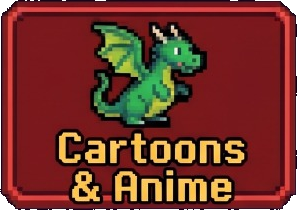
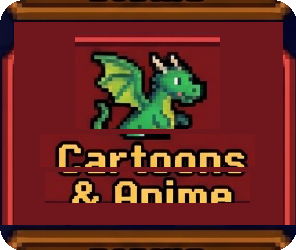
fix(ui): revert global font to Archivo, fit Cartoons & Anime in box, and compact category grid

diff --git a/lib/main.dart b/lib/main.dart
@@ -158,8 +158,8 @@ class FraudCheckApp extends StatelessWidget {
         brightness: Brightness.dark,
         scaffoldBackgroundColor: bg,
         colorScheme: const ColorScheme.dark(primary: yellow, surface: card),
-        fontFamily: GoogleFonts.pixelifySans().fontFamily,
-        textTheme: GoogleFonts.pixelifySansTextTheme(
+        fontFamily: GoogleFonts.archivo().fontFamily,
+        textTheme: GoogleFonts.archivoTextTheme(
           ThemeData.dark().textTheme.apply(bodyColor: ink, displayColor: ink),
         ),
       ),
@@ -247,7 +247,7 @@ class FilmStripPainter extends CustomPainter {
       color: const Color(0xFFFFD15C).withValues(alpha: 0.45),
       fontSize: 26,
       fontWeight: FontWeight.w900,
-      fontFamily: GoogleFonts.pixelifySans().fontFamily,
+      fontFamily: GoogleFonts.archivo().fontFamily,
     );
     final textPainter = TextPainter(
       text: TextSpan(text: '?', style: textStyle),
@@ -1326,7 +1326,7 @@ class _GamePageState extends State<GamePage> {
             'FRAUD CHECK',
             textAlign: TextAlign.center,
             style: TextStyle(
-              fontFamily: GoogleFonts.pixelifySans().fontFamily,
+              fontFamily: GoogleFonts.archivo().fontFamily,
               fontSize: 44,
               fontWeight: FontWeight.w900,
               letterSpacing: 1.5,
@@ -1507,14 +1507,17 @@ class _GamePageState extends State<GamePage> {
             ),
           ),
           const SizedBox(height: 12),
-          GridView.count(
-            crossAxisCount: 2,
-            shrinkWrap: true,
-            physics: const NeverScrollableScrollPhysics(),
-            crossAxisSpacing: 10,
-            mainAxisSpacing: 10,
-            childAspectRatio: 1.25,
-            children: categories.keys.map((cat) {
+          ConstrainedBox(
+            constraints: const BoxConstraints(maxWidth: 440),
+            child: GridView.count(
+              padding: const EdgeInsets.symmetric(horizontal: 16),
+              crossAxisCount: 2,
+              shrinkWrap: true,
+              physics: const NeverScrollableScrollPhysics(),
+              crossAxisSpacing: 10,
+              mainAxisSpacing: 10,
+              childAspectRatio: 1.25,
+              children: categories.keys.map((cat) {
               final selected = chosenCat == cat;
               final imageAsset = categoryImages[cat];
 
@@ -1595,7 +1598,8 @@ class _GamePageState extends State<GamePage> {
               );
             }).toList(),
           ),
-          const SizedBox(height: 16),
+        ),
+        const SizedBox(height: 16),
           _secondary('Back to main menu', () => go(Screen.home)),
         ],
       );

diff --git a/test/challenger_m1_branding_test.dart b/test/challenger_m1_branding_test.dart
@@ -23,8 +23,8 @@ void main() {
     });
   }
 
-  group('Challenger M1: Typography & Pixelify Sans Font Family Conformance (F3)', () {
-    testWidgets('ThemeData textTheme explicitly applies GoogleFonts.pixelifySans to all 15 TextTheme styles',
+  group('Challenger M1: Typography & Archivo Font Family Conformance (F3)', () {
+    testWidgets('ThemeData textTheme explicitly applies GoogleFonts.archivo to all 15 TextTheme styles',
         (WidgetTester tester) async {
       setMobileScreen(tester);
       await tester.pumpWidget(const FraudCheckApp());
@@ -65,13 +65,13 @@ void main() {
         );
         expect(
           entry.value!.fontFamily!.toLowerCase(),
-          contains('pixelifysans'),
-          reason: '${entry.key} font family "${entry.value!.fontFamily}" must contain "pixelifysans"',
+          contains('archivo'),
+          reason: '${entry.key} font family "${entry.value!.fontFamily}" must contain "archivo"',
         );
       }
     });
 
-    testWidgets('DefaultTextStyle in widget tree inherits GoogleFonts PixelifySans',
+    testWidgets('DefaultTextStyle in widget tree inherits GoogleFonts Archivo',
         (WidgetTester tester) async {
       setMobileScreen(tester);
       await tester.pumpWidget(const FraudCheckApp());
@@ -81,8 +81,8 @@ void main() {
       final defaultStyle = DefaultTextStyle.of(context).style;
       expect(
         defaultStyle.fontFamily?.toLowerCase(),
-        contains('pixelifysans'),
-        reason: 'DefaultTextStyle must resolve to PixelifySans font family',
+        contains('archivo'),
+        reason: 'DefaultTextStyle must resolve to Archivo font family',
       );
     });
 
@@ -99,7 +99,7 @@ void main() {
         if (textWidget.style?.fontFamily != null) {
           expect(
             textWidget.style!.fontFamily!.toLowerCase(),
-            contains('pixelifysans'),
+            contains('archivo'),
             reason: 'Text widget with text "${textWidget.data}" has foreign fontFamily: ${textWidget.style!.fontFamily}',
           );
         }

diff --git a/test/e2e_party_game_test.dart b/test/e2e_party_game_test.dart
@@ -108,22 +108,22 @@ void main() {
           reason: 'Logo character cutout from assets/logo.png must be rendered on the main screen');
     });
 
-    testWidgets('T1.3: F3 - Application theme configures PixelifySans typography across the app',
+    testWidgets('T1.3: F3 - Application theme configures Archivo typography across the app',
         (WidgetTester tester) async {
       setMobileScreen(tester);
       await tester.pumpWidget(const FraudCheckApp());
       await tester.pump(const Duration(milliseconds: 100));
 
-      // F3 / R1: All text rendered using PixelifySans font
+      // F3 / R1: All text rendered using Archivo font
       final gamePageElement = tester.element(find.byType(GamePage));
       final theme = Theme.of(gamePageElement);
       final bodyFont = theme.textTheme.bodyMedium?.fontFamily ?? '';
       final titleFont = theme.textTheme.titleLarge?.fontFamily ?? '';
 
-      final isPixelifyConfigured = bodyFont.toLowerCase().contains('pixelifysans') ||
-          titleFont.toLowerCase().contains('pixelifysans');
-      expect(isPixelifyConfigured, isTrue,
-          reason: 'Typography across entire game must use the Pixelify Sans Google font');
+      final isArchivoConfigured = bodyFont.toLowerCase().contains('archivo') ||
+          titleFont.toLowerCase().contains('archivo');
+      expect(isArchivoConfigured, isTrue,
+          reason: 'Typography across entire game must use the Archivo Google font');
     });
 
     testWidgets('T1.4: F4 - Legacy English subtitle is absent from Main Menu',

diff --git a/test/visuals_and_branding_m1_test.dart b/test/visuals_and_branding_m1_test.dart
@@ -99,7 +99,7 @@ void main() {
       await expectLater(Sound.lose(), completes);
     });
 
-    testWidgets('App theme configures GoogleFonts PixelifySans text theme',
+    testWidgets('App theme configures GoogleFonts Archivo text theme',
         (WidgetTester tester) async {
       setMobileScreen(tester);
       await tester.pumpWidget(const FraudCheckApp());
@@ -111,7 +111,7 @@ void main() {
       expect(theme!.scaffoldBackgroundColor, bg);
       expect(theme.colorScheme.primary, yellow);
       expect(theme.colorScheme.surface, card);
-      expect(theme.textTheme.bodyMedium?.fontFamily?.toLowerCase(), contains('pixelifysans'));
+      expect(theme.textTheme.bodyMedium?.fontFamily, contains('Archivo'));
     });
   });
 }

diff --git a/test/empirical_challenger_overhaul_test.dart b/test/empirical_challenger_overhaul_test.dart
@@ -108,7 +108,7 @@ void main() {
       expect(titleFinder, findsOneWidget);
 
       final titleWidget = tester.widget<Text>(titleFinder);
-      expect(titleWidget.style?.fontFamily, GoogleFonts.pixelifySans().fontFamily);
+      expect(titleWidget.style?.fontFamily, GoogleFonts.archivo().fontFamily);
       expect(titleWidget.style?.fontWeight, FontWeight.w900);
       expect(titleWidget.style?.shadows, isNotNull);
 
